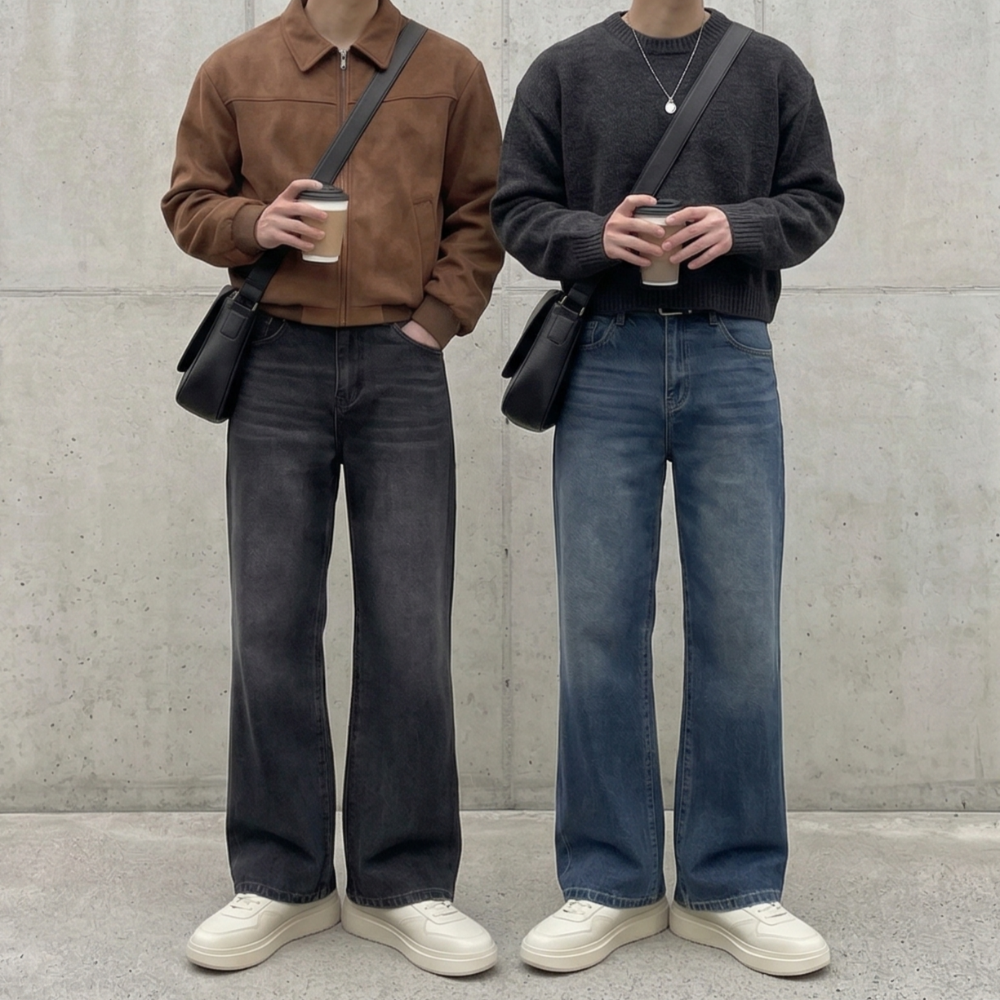
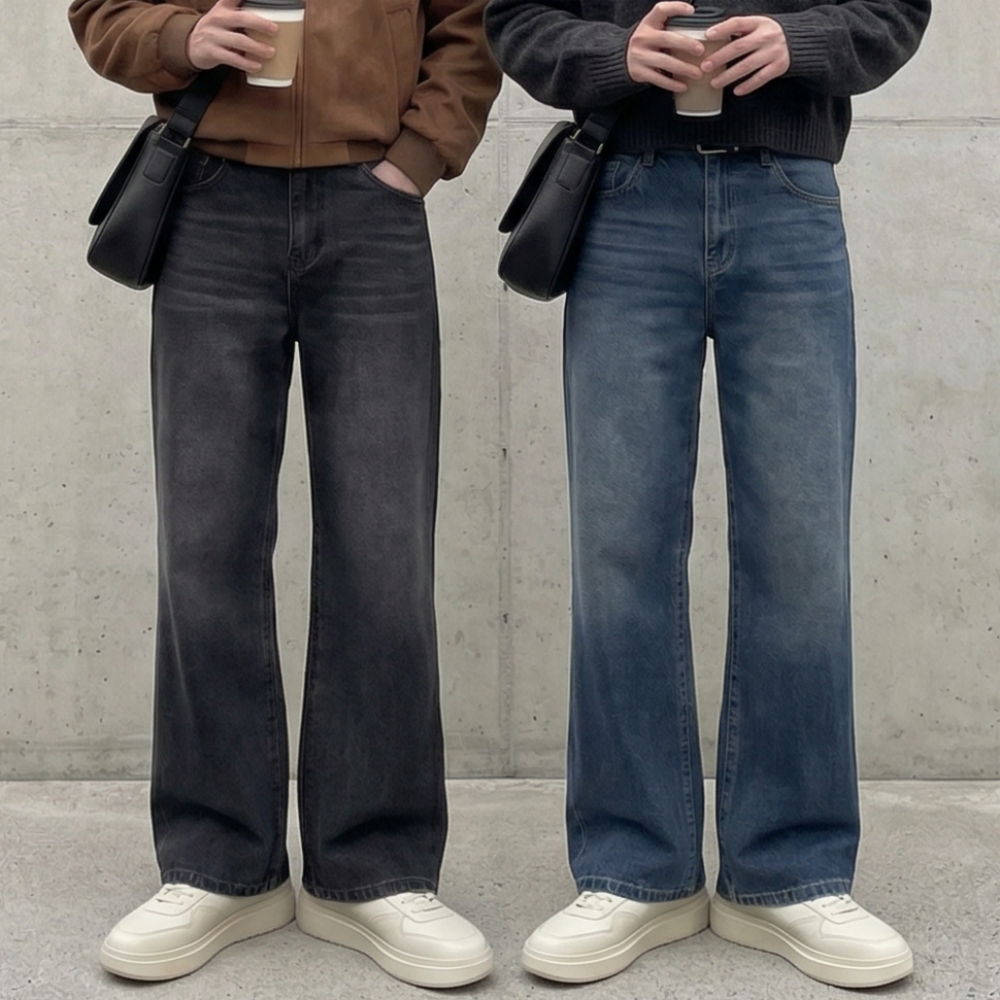
ddd

diff --git a/product_search/app.py b/product_search/app.py
@@ -1,0 +1,44 @@
+import pandas as pd
+import streamlit as st
+
+# 웹페이지 상단 제목 설정
+st.title("🔍 사내 상품 상세페이지 조회 시스템")
+st.write("자체상품코드를 입력하면 상세페이지 링크를 바로 확인할 수 있습니다.")
+
+# 1. 엑셀 파일 불러오기 (파일 이름이 다르면 여기를 수정하세요)
+file_name = "product_list.xlsx"
+
+try:
+  df = pd.read_excel(file_name)
+except FileNotFoundError:
+  st.error(
+      f"'{file_name}' 파일을 찾을 수 없습니다. 파이썬 코드와 같은 폴더에"
+      " 엑셀 파일이 있는지 확인해주세요."
+  )
+  st.stop()
+
+# 2. 검색창 만들기
+search_code = st.text_input("자체상품코드를 입력하거나 붙여넣으세요:")
+
+# 3. 검색 버튼 또는 엔터 입력 시 결과 표시
+if search_code:
+  # 대소문자나 공백 차이로 검색이 안 되는 것을 막기 위해 문자열로 변환 후 비교
+  df["자체상품코드_str"] = df["자체상품코드"].astype(str).str.strip()
+  search_code_clean = str(search_code).strip()
+
+  result = df[df["자체상품코드_str"] == search_code_clean]
+
+  if not result.empty:
+    st.success("상품을 찾았습니다! 🎉")
+
+    # 결과가 여러 개일 수 있으므로 반복문으로 모두 출력
+    for index, row in result.iterrows():
+      p_name = row["상품명"]
+      p_url = row["상세페이지 URL"]
+
+      st.markdown(f"### **상품명:** {p_name}")
+      # 커다란 버튼 형태의 링크 제공
+      st.link_button("🔗 상세페이지 바로가기", p_url)
+      st.divider()
+  else:
+    st.warning("존재하지 않는 자체상품코드입니다. 코드를 다시 확인해주세요.")
